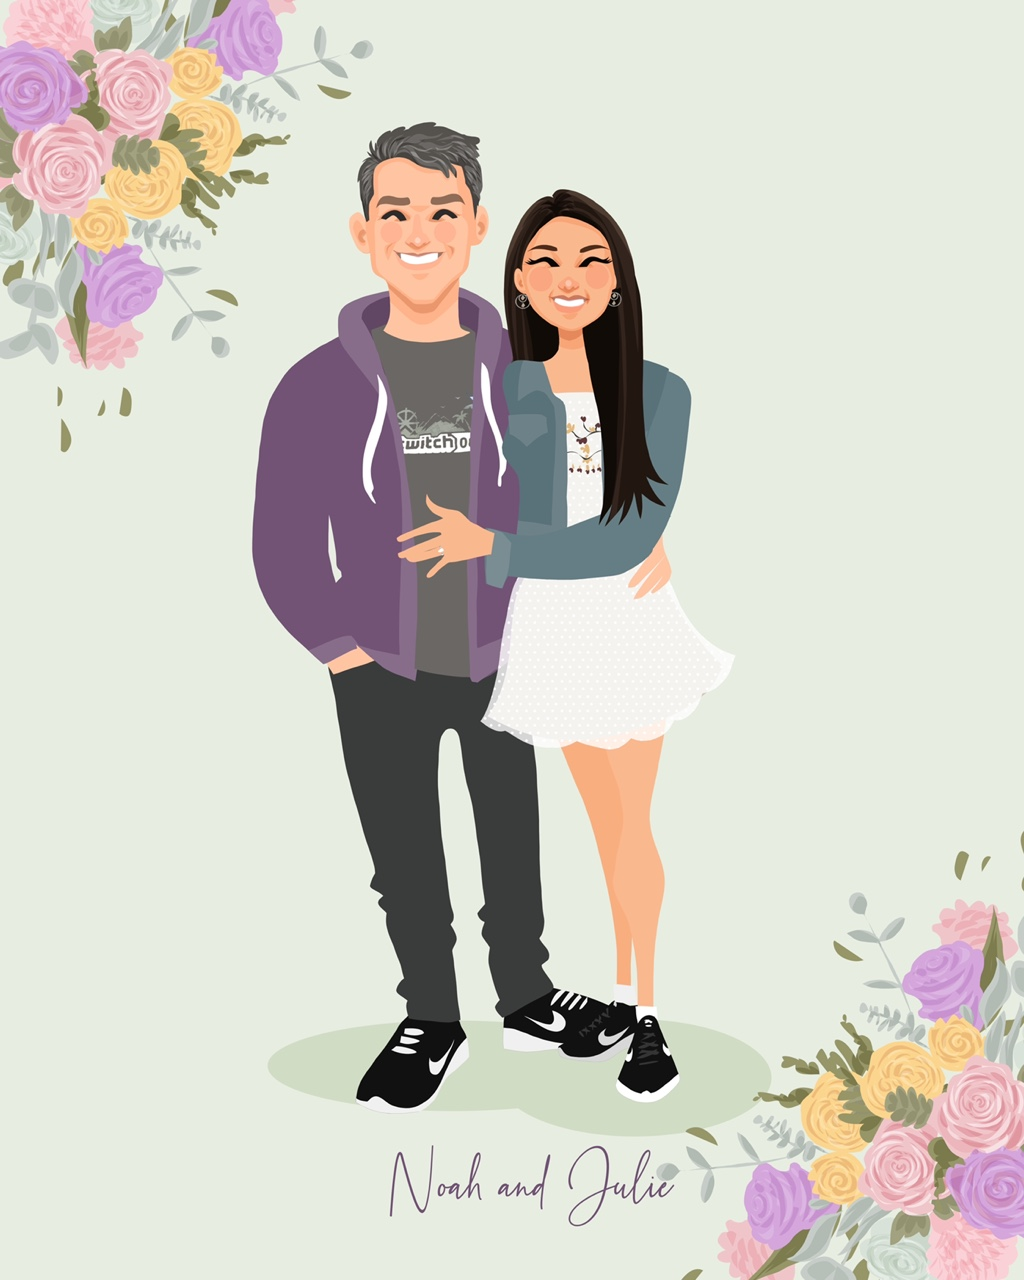
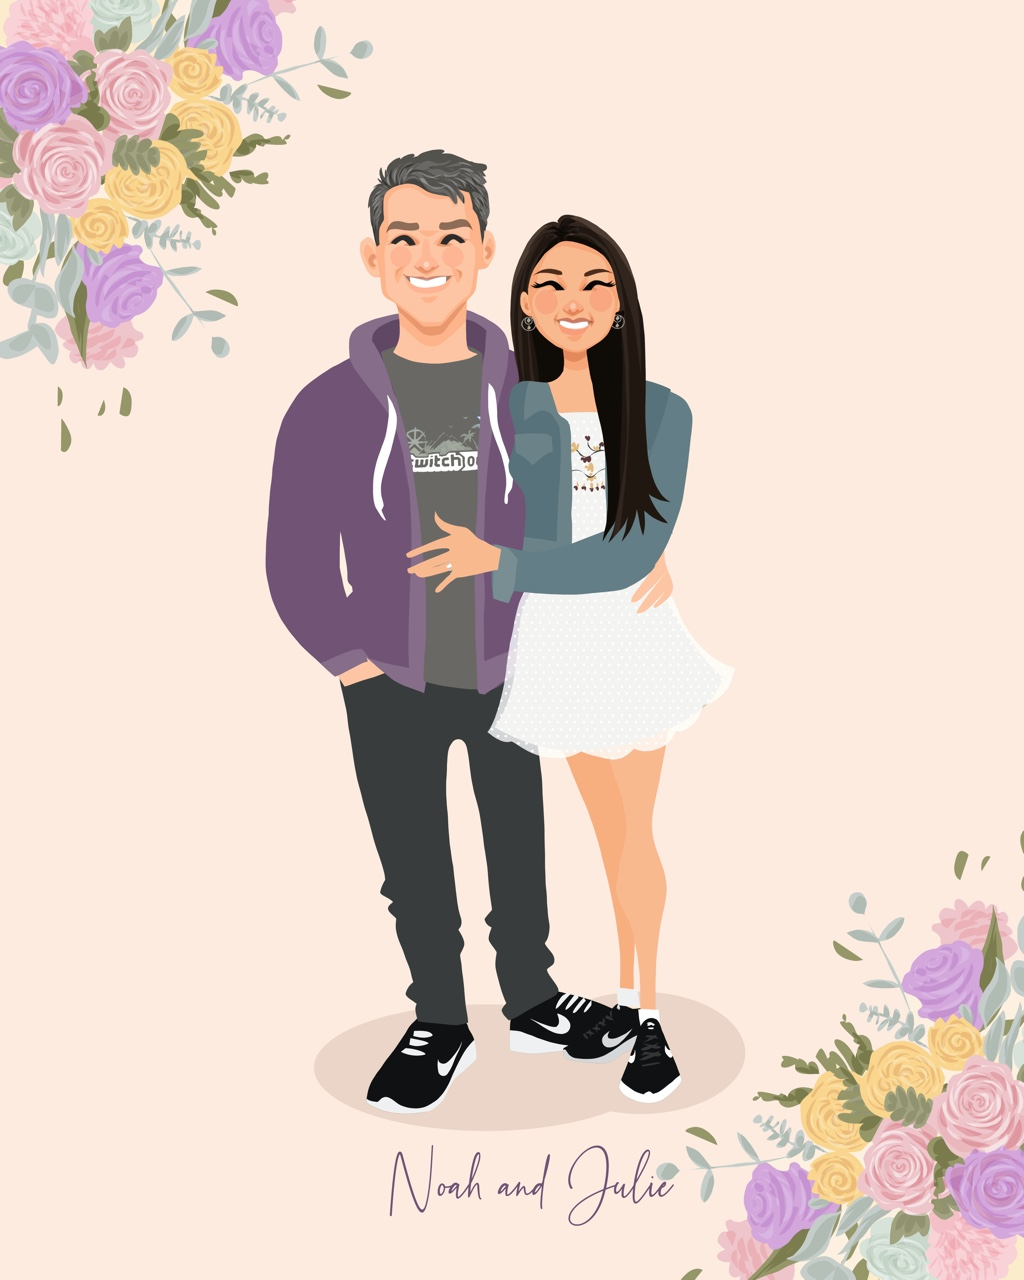
Portrait update

diff --git a/style.css b/style.css
@@ -54,7 +54,7 @@ h2 {
   box-sizing: border-box;
   border-width: 6px;
   border-style: ridge;
-  border-color: hsl(46, 56%, 92%);
+  border-color: #f8ebe1;
 }
 
 .dt-sep {
